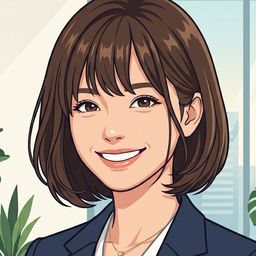
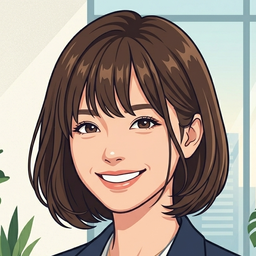
fix: 立ち絵の頭の見切れを解消し、丸枠とウィンドウ幅を広げて v0.2.0 に
- 丸く切り抜くと頭のてっぺんが枠に食われるため、頭の上に余白を作って
  6種すべてを切り直した。上に伸ばすと隣のパネルのラベル文字を拾うので、
  背景色で余白を作る方式にしている
- 丸枠 120px -> 132px、ウィンドウ幅 1000px -> 1140px
- タスク管理・アドレス帳・秘書子・UI刷新を含むため 0.1.0 -> 0.2.0

diff --git a/src/renderer/styles.css b/src/renderer/styles.css
@@ -361,7 +361,7 @@ button.ghost:hover { background: var(--accent-weak); color: var(--text); }
 .hishoko-bubble::after {
   content: "";
   position: absolute;
-  right: 52px;
+  right: 60px;
   bottom: -7px;
   width: 12px;
   height: 12px;
@@ -373,8 +373,8 @@ button.ghost:hover { background: var(--accent-weak); color: var(--text); }
 
 .hishoko-figure {
   position: relative;
-  width: 120px;
-  height: 120px;
+  width: 132px;
+  height: 132px;
   border-radius: 50%;
   background: var(--accent-weak);
   border: 3px solid var(--accent);

diff --git a/electron/main.js b/electron/main.js
@@ -15,7 +15,7 @@ const PATHS = makePaths(app.getPath('userData'));
 
 function createWindow() {
   const win = new BrowserWindow({
-    width: 1000,
+    width: 1140,
     height: 800,
     title: '俺の秘書子',
     // 開発中（npm start）のウィンドウ左上・タスクバー用。
